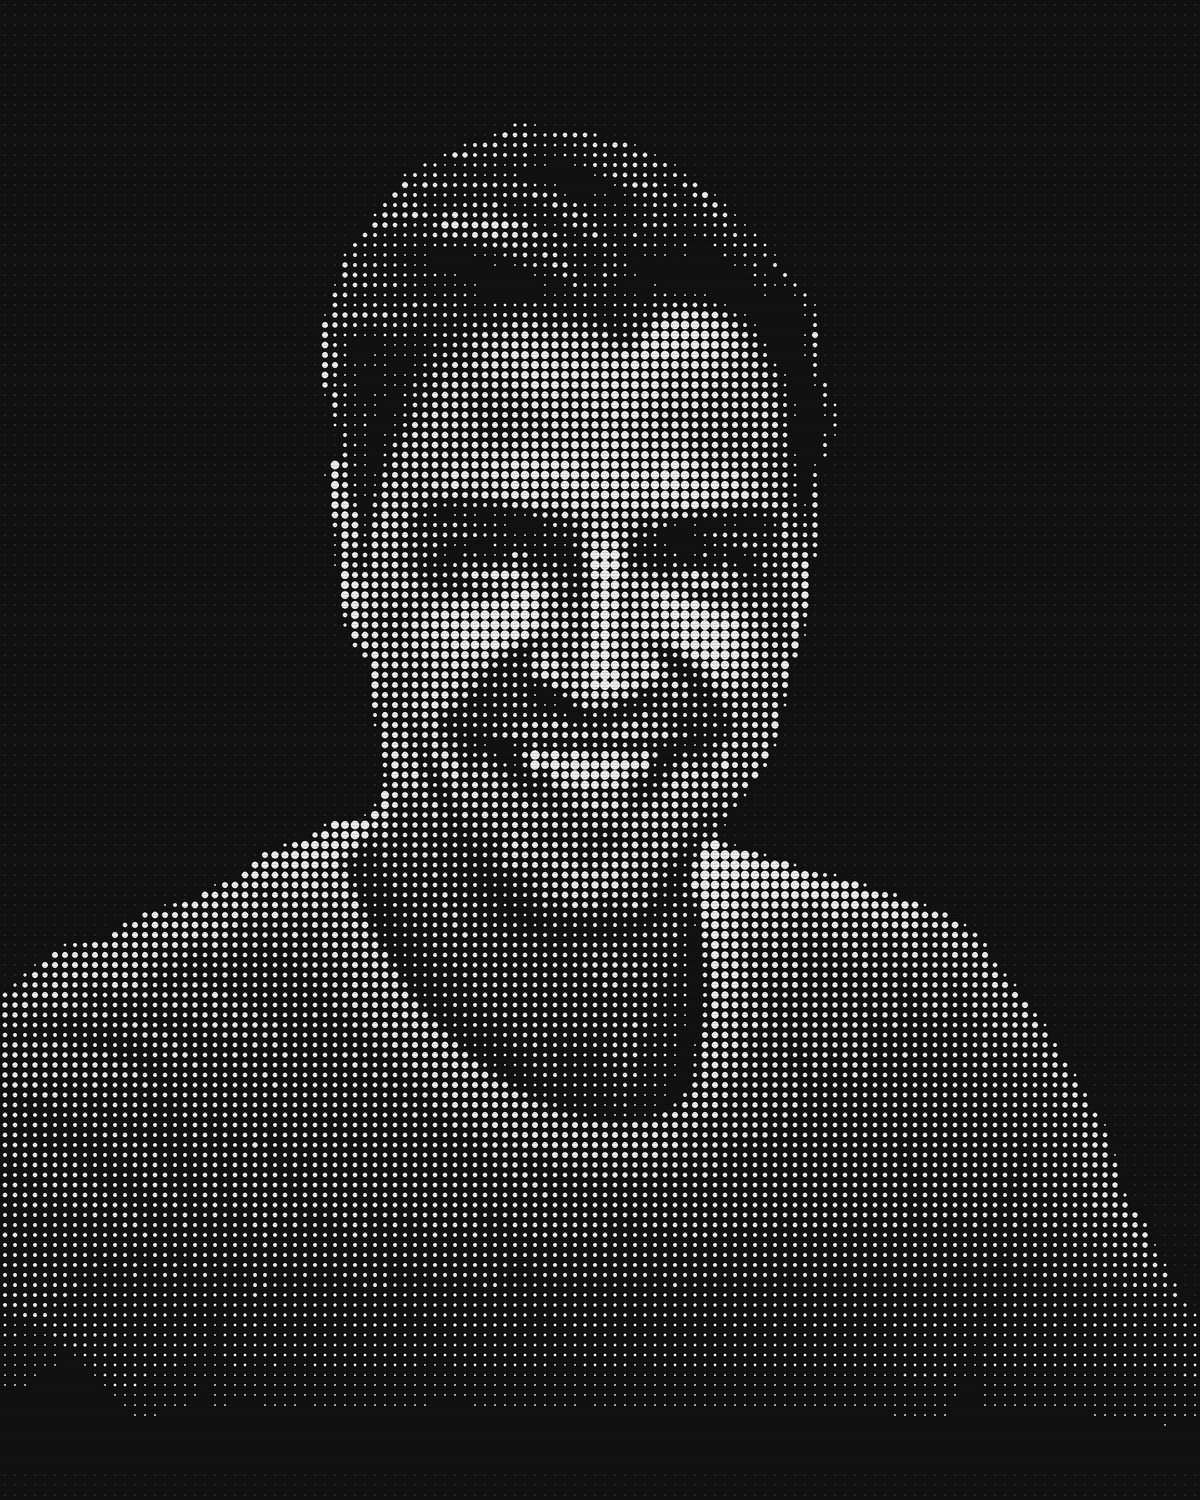
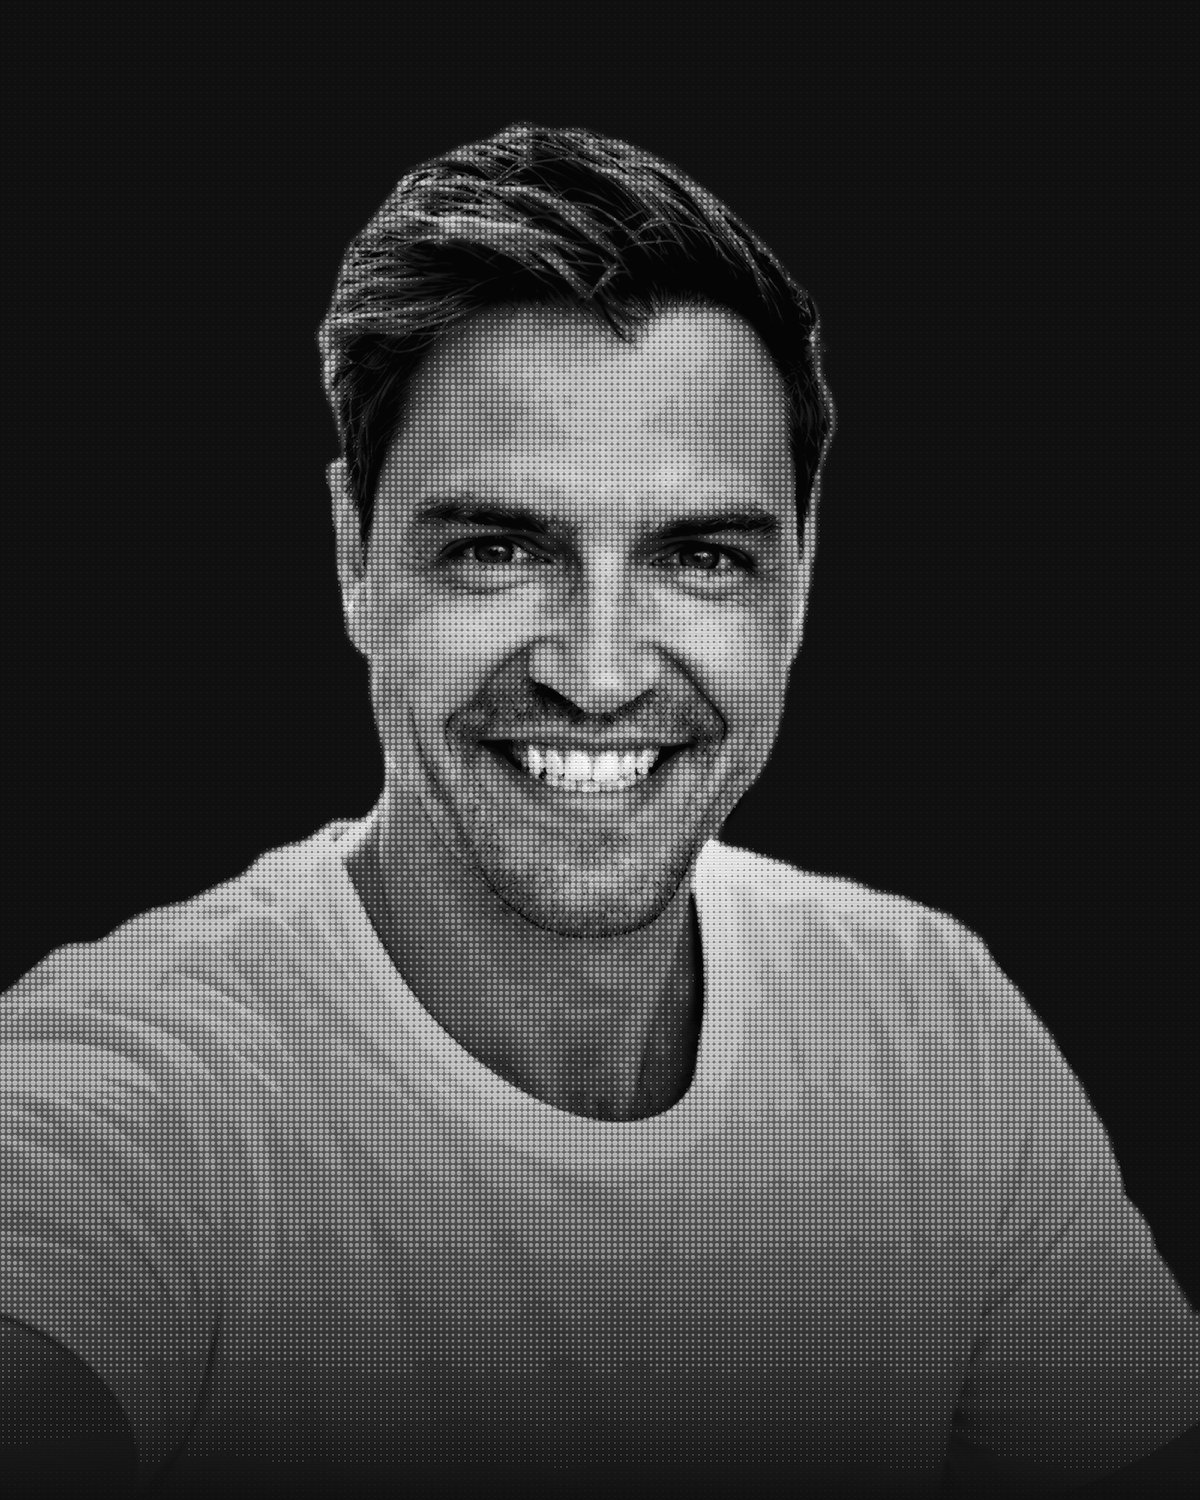
Porträt klarer: Foto erkennbar, feines Raster nur als Textur
Claude-Session: https://claude.ai/code/session_01JnJhZpiW9LUHGCpXo7Yde3

diff --git a/index.html b/index.html
@@ -625,7 +625,7 @@ html[lang="de"] .big-cta{font-size:clamp(28px,5vw,76px)}
         <img src="/assets/lars-orlamuende.jpg" width="1200" height="1500" loading="lazy" decoding="async" alt="Lars Orlamünde, Founder &amp; CEO der TradeX International AG, als Raster-Grafik" data-en-alt="Lars Orlamünde, Founder &amp; CEO of TradeX International AG, as a halftone graphic">
         <span class="shade" aria-hidden="true"></span>
         <span class="corner c1"></span><span class="corner c2"></span><span class="corner c3"></span><span class="corner c4"></span>
-        <div class="ph-top mono" aria-hidden="true"><span class="rec"><i></i>Live</span><span data-en="halftone · 10px">Raster · 10px</span></div>
+        <div class="ph-top mono" aria-hidden="true"><span class="rec"><i></i>Live</span><span data-en="halftone · 10px">Raster · 6px</span></div>
         <div class="ph mono" aria-hidden="true"><span>Lars Orlamünde</span><span>Founder &amp; CEO</span></div>
       </div>
       <dl class="spec">
